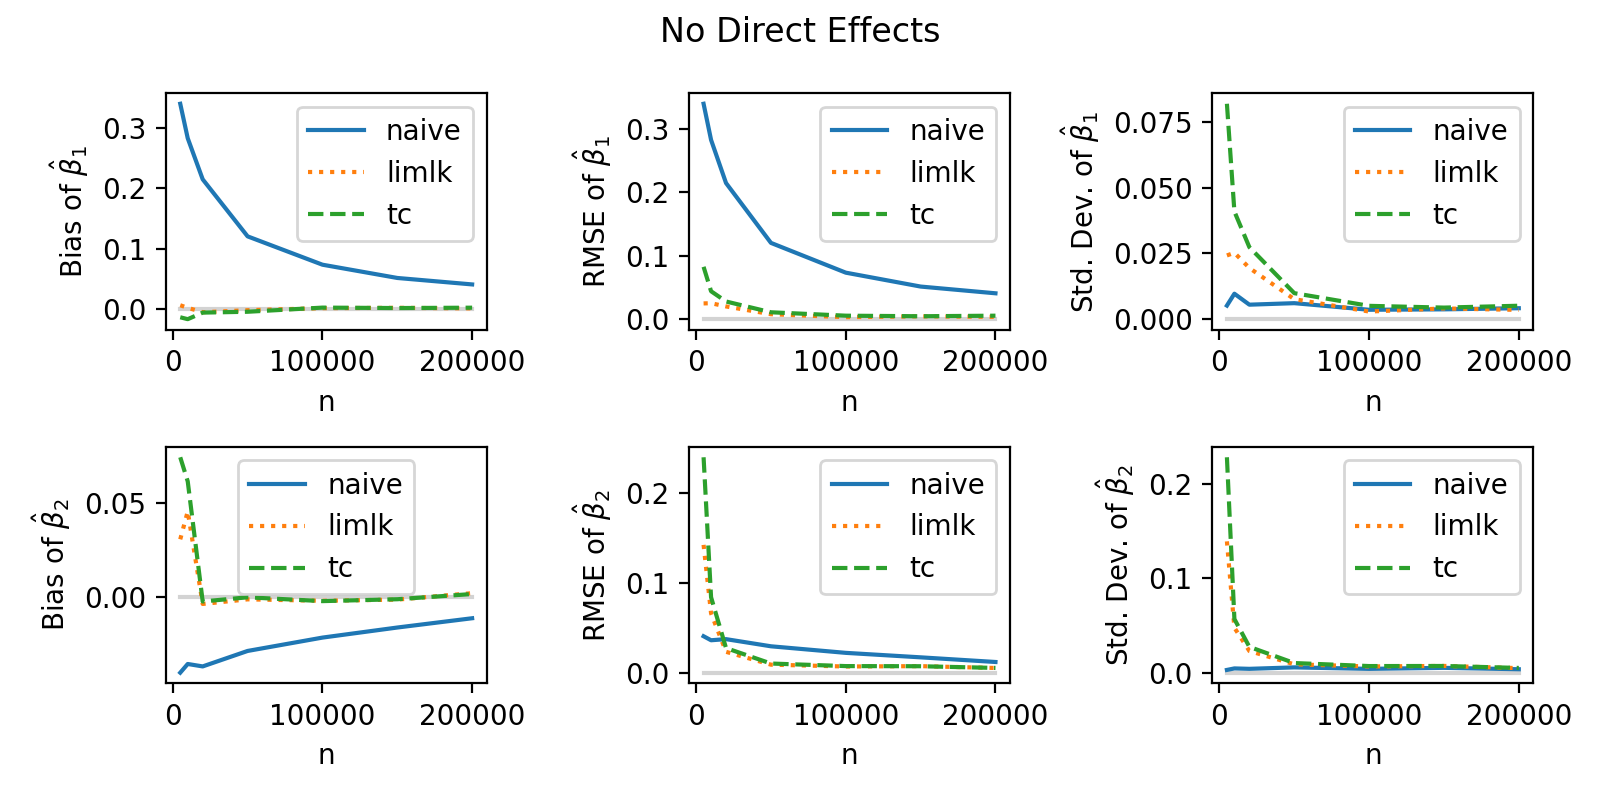
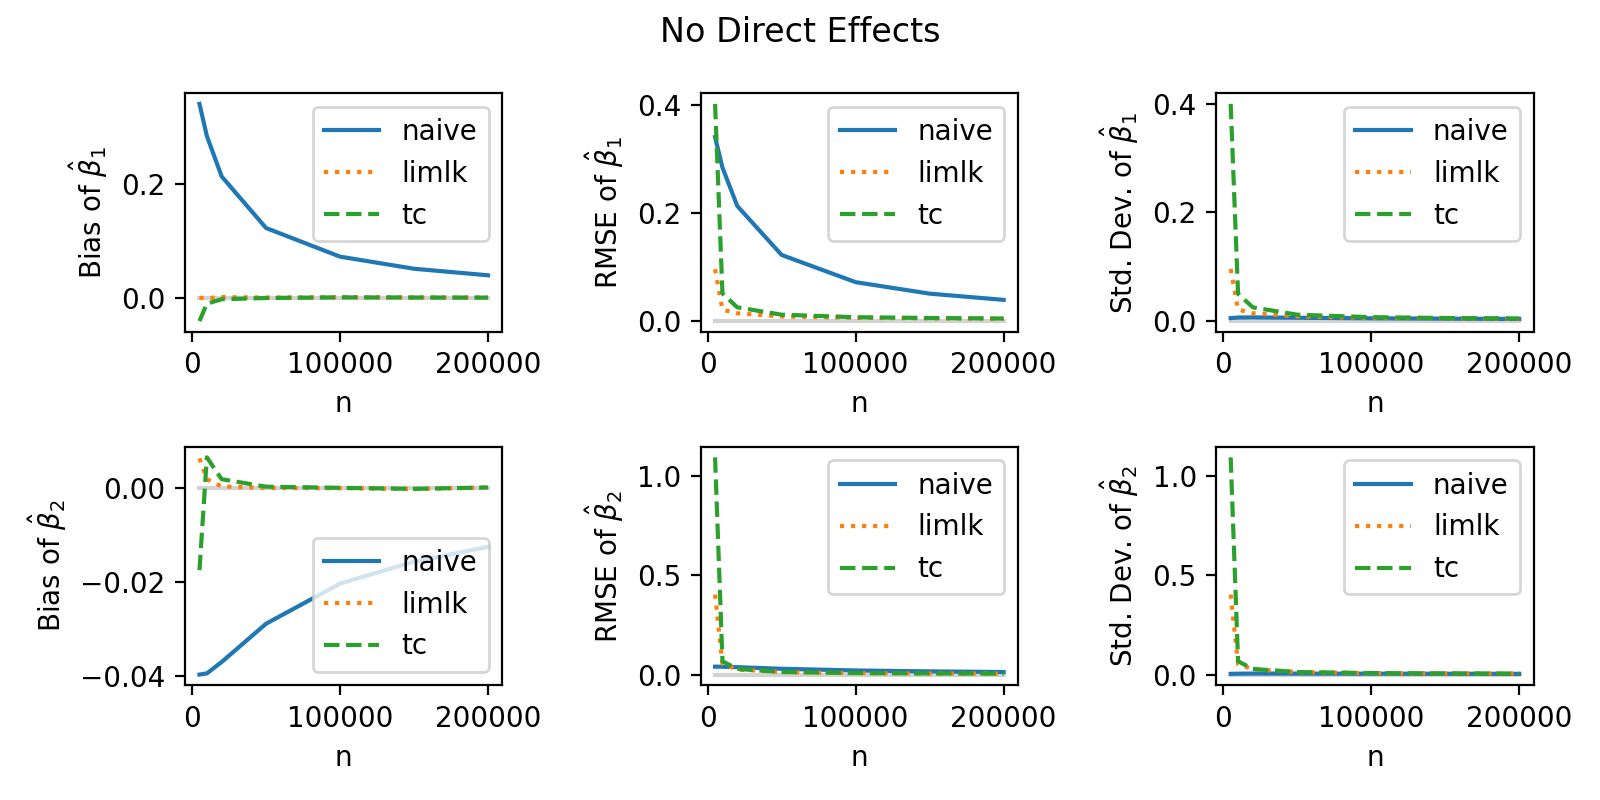
Increase sims to 10k

diff --git a/src/constants.py b/src/constants.py
@@ -2,7 +2,7 @@
 import numpy as np
 
 
-SIMS = 100
+SIMS = 10_000
 BETA = np.array([-0.4, 0.04])
 
 LAMBDA = (
